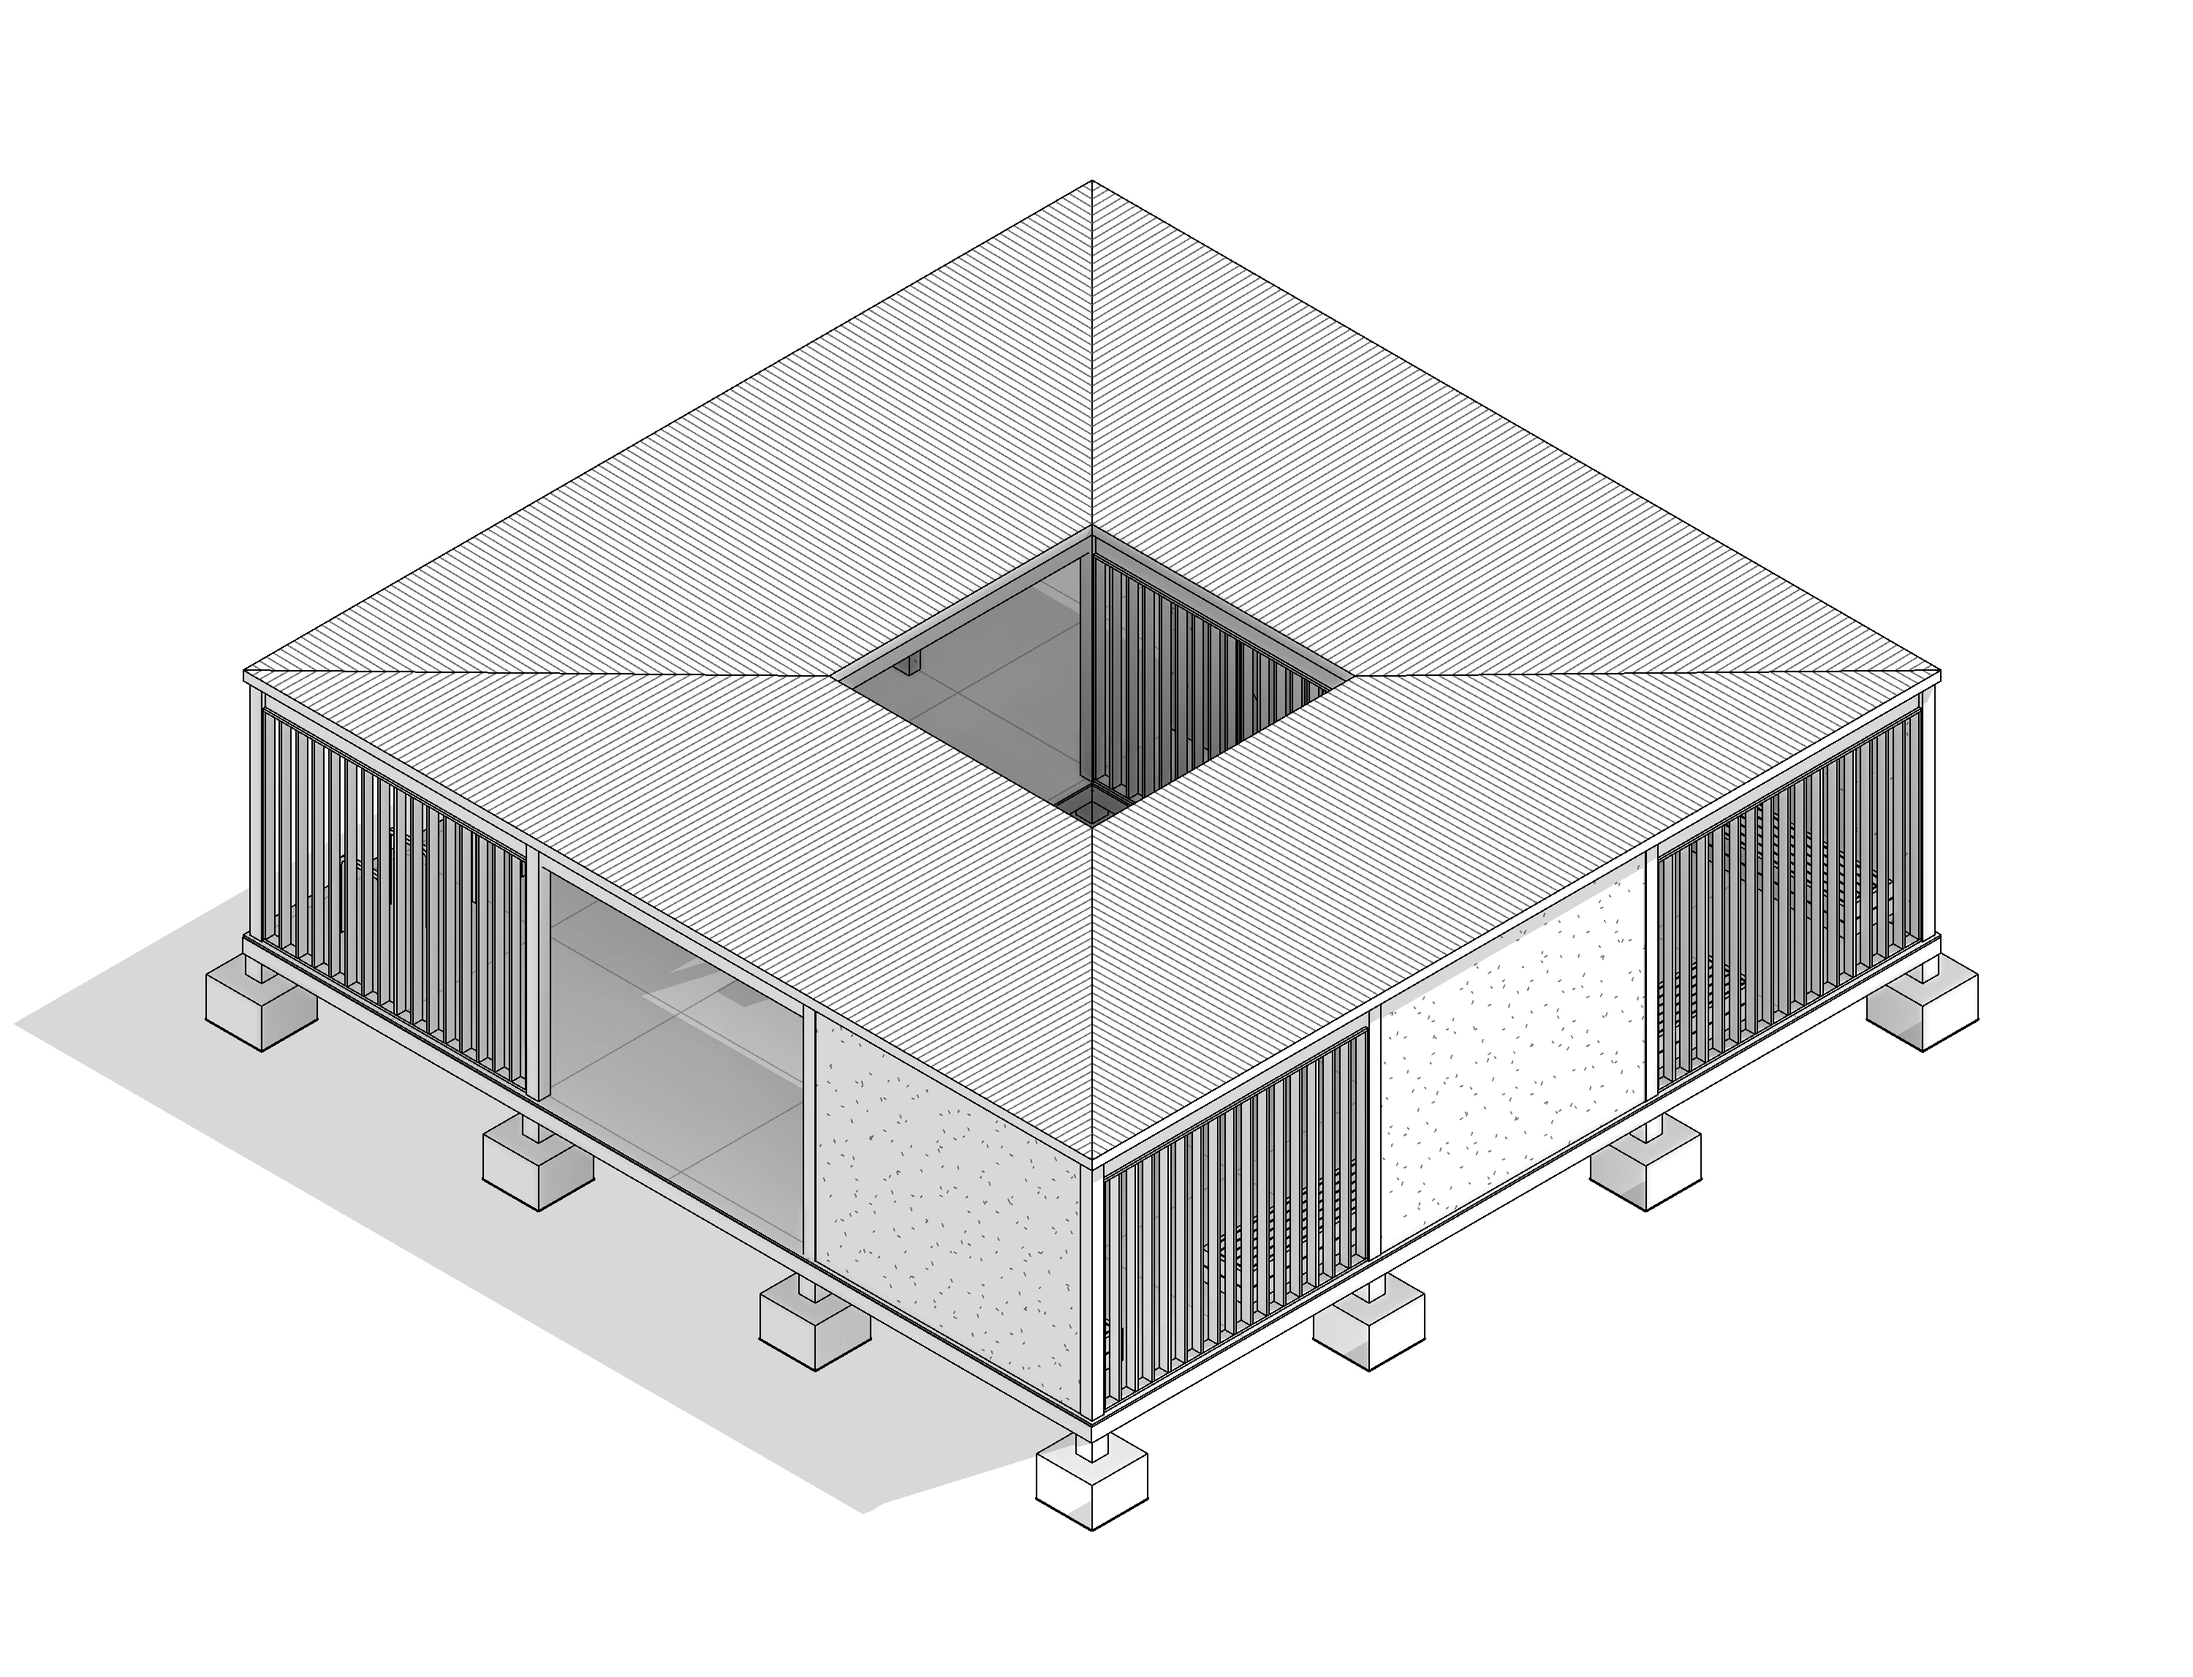
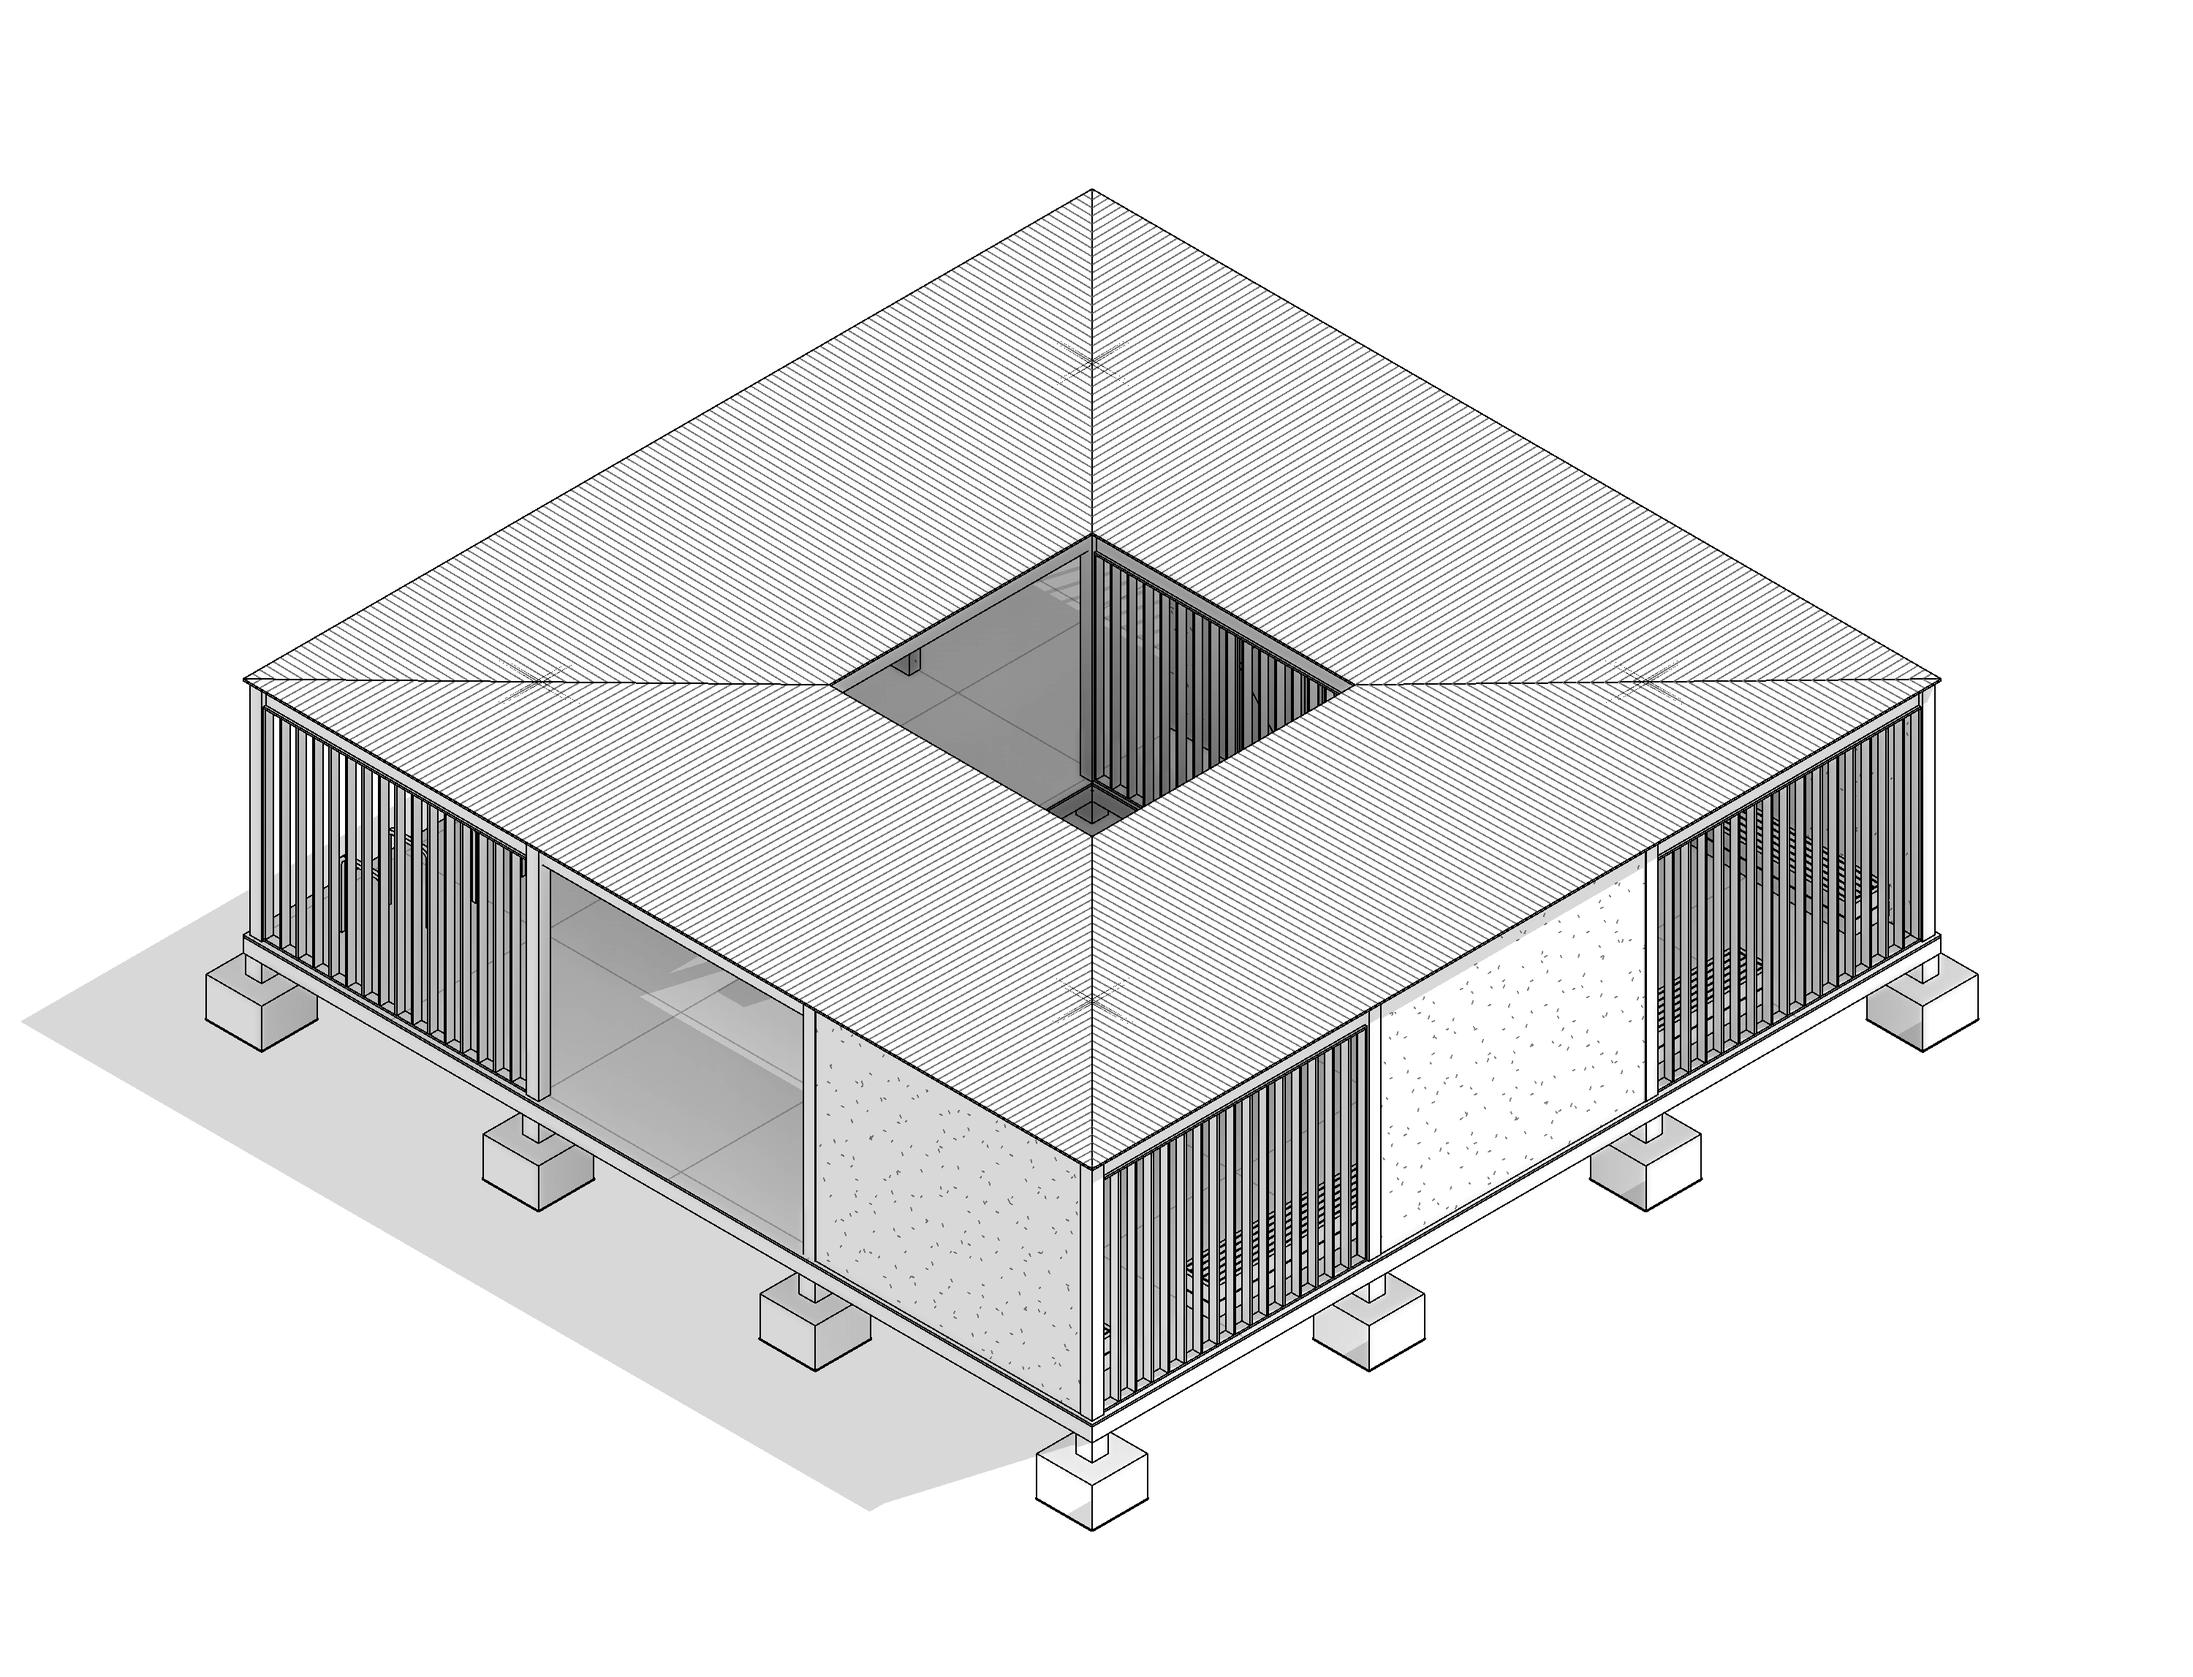
Isométricas actualizadas con las ventanas de aluminio negro

diff --git a/index.html b/index.html
@@ -474,10 +474,10 @@ html[data-theme=dark] img,html[data-theme=dark] video,html[data-theme=dark] canv
 <div class="sub-t">Vistas isométricas</div>
 <div class="iso">
 <div class="st">
-<a href="06_Imagenes/05_Isometrica.png?v=3" data-lb="06_Imagenes/05_Isometrica.png?v=3"><figure><img decoding="async" src="06_Imagenes/05_Isometrica.png?v=3" alt="Isométrica del volumen"><figcaption>Volumen, cubierta y patio</figcaption></figure></a>
-<a href="06_Imagenes/07_Isometrica_Cortada.png?v=3" data-lb="06_Imagenes/07_Isometrica_Cortada.png?v=3"><figure><img decoding="async" src="06_Imagenes/07_Isometrica_Cortada.png?v=3" alt="Isométrica sin cubierta"><figcaption>Sin cubierta — bebederos, baño, apoyo y bicicletas</figcaption></figure></a>
+<a href="06_Imagenes/05_Isometrica.png?v=4" data-lb="06_Imagenes/05_Isometrica.png?v=4"><figure><img decoding="async" src="06_Imagenes/05_Isometrica.png?v=4" alt="Isométrica del volumen"><figcaption>Volumen, cubierta y patio</figcaption></figure></a>
+<a href="06_Imagenes/07_Isometrica_Cortada.png?v=4" data-lb="06_Imagenes/07_Isometrica_Cortada.png?v=4"><figure><img decoding="async" src="06_Imagenes/07_Isometrica_Cortada.png?v=4" alt="Isométrica sin cubierta"><figcaption>Sin cubierta — bebederos, baño, apoyo y bicicletas</figcaption></figure></a>
 </div>
-<a class="big" href="06_Imagenes/06_Isometrica_Explotada.png?v=3" data-lb="06_Imagenes/06_Isometrica_Explotada.png?v=3"><figure><img decoding="async" src="06_Imagenes/06_Isometrica_Explotada.png?v=3" alt="Isométrica explotada"><figcaption>Isométrica explotada — capas constructivas: cubierta, armazón, paramentos y mobiliario</figcaption></figure></a>
+<a class="big" href="06_Imagenes/06_Isometrica_Explotada.png?v=4" data-lb="06_Imagenes/06_Isometrica_Explotada.png?v=4"><figure><img decoding="async" src="06_Imagenes/06_Isometrica_Explotada.png?v=4" alt="Isométrica explotada"><figcaption>Isométrica explotada — capas constructivas: cubierta, armazón, paramentos y mobiliario</figcaption></figure></a>
 </div>
 <div class="sub-t">Video</div>
 <div class="vid">
